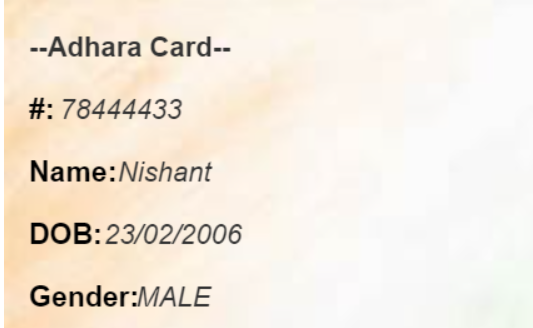
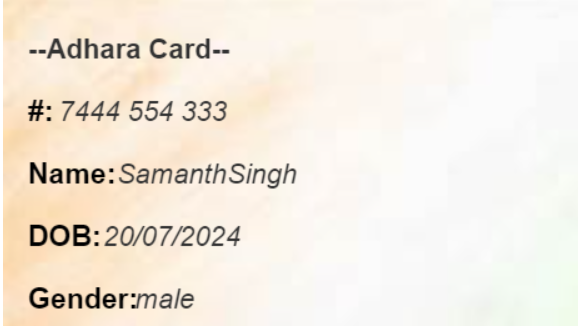
update readme

diff --git a/src/scripts/formHandlers.js b/src/scripts/formHandlers.js
@@ -23,12 +23,12 @@ function populateAadhaarFields() {
            <!-- Radio buttons for gender -->
             <div class="gender-selection">
                 <label>
-                    <input type="radio" id="gender_male" name="gender" value="MALE" required>
-                    Male
+                    <input type="radio" id="gender_male" name="gender" value="male" required>
+                    male
                 </label>
                 <label>
-                    <input type="radio" id="gender_female" name="gender" value="FEMALE" required>
-                    Female
+                    <input type="radio" id="gender_female" name="gender" value="female" required>
+                    female
                 </label>
             </div>
 
@@ -57,12 +57,12 @@ function populateDrivingLicenseFields() {
             <!-- Radio buttons for gender -->
             <div class="gender-selection">
                 <label>
-                    <input type="radio" id="gender_male" name="gender" value="MALE" required>
-                    Male
+                    <input type="radio" id="gender_male" name="gender" value="male" required>
+                    male
                 </label>
                 <label>
-                    <input type="radio" id="gender_female" name="gender" value="FEMALE" required>
-                    Female
+                    <input type="radio" id="gender_female" name="gender" value="female" required>
+                    female
                 </label>
             </div>
 
@@ -83,12 +83,12 @@ function populatePanCardFields() {
            <!-- Radio buttons for gender -->
             <div class="gender-selection">
                 <label>
-                    <input type="radio" id="gender_male" name="gender" value="MALE" required>
-                    Male
+                    <input type="radio" id="gender_male" name="gender" value="male" required>
+                    male
                 </label>
                 <label>
-                    <input type="radio" id="gender_female" name="gender" value="FEMALE" required>
-                    Female
+                    <input type="radio" id="gender_female" name="gender" value="female" required>
+                    female
                 </label>
             </div>
 

diff --git a/src/scripts/generateImage.js b/src/scripts/generateImage.js
@@ -83,8 +83,8 @@ export function generateImage(documentType, documentNumber, holdingPersonName, D
                 context.font = 'italic 22px Arial';
                 context.fillStyle = '#333';
                 context.fillText(line.substring(dobIndex + 4), 20 + context.measureText(line.substring(0, dobIndex + 4)).width, 50 + index * 50);
-            } else if (line.includes('Gender:')) {
-                const genderIndex = line.indexOf('Gender:');
+            } else if (line.includes('Gender: ')) {
+                const genderIndex = line.indexOf('Gender: ');
                 const genderLabel = line.substring(0, genderIndex + 7); 
                 const genderValue = line.substring(genderIndex + 7); 
             

diff --git a/README.md b/README.md
@@ -98,7 +98,7 @@ This section consists of forms image that are used in our website
 
 ![AadharCard](/public/assets/images/AadharCard.png)
 
-![DlCard](public/assets/images/DrvingLicense.png)
+![DlCard](public/assets/images/DrivingLicense.png)
 
  This section consists of the canva image that are generated from user data after clicking view button 
 
